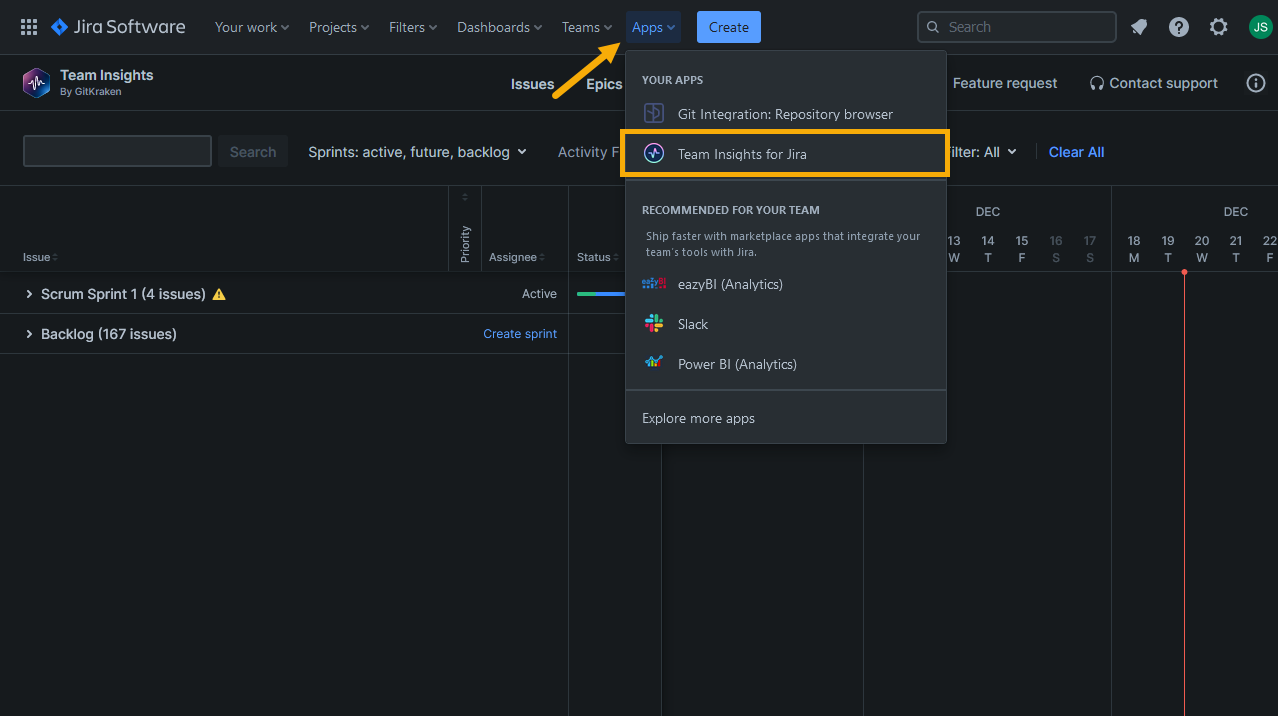
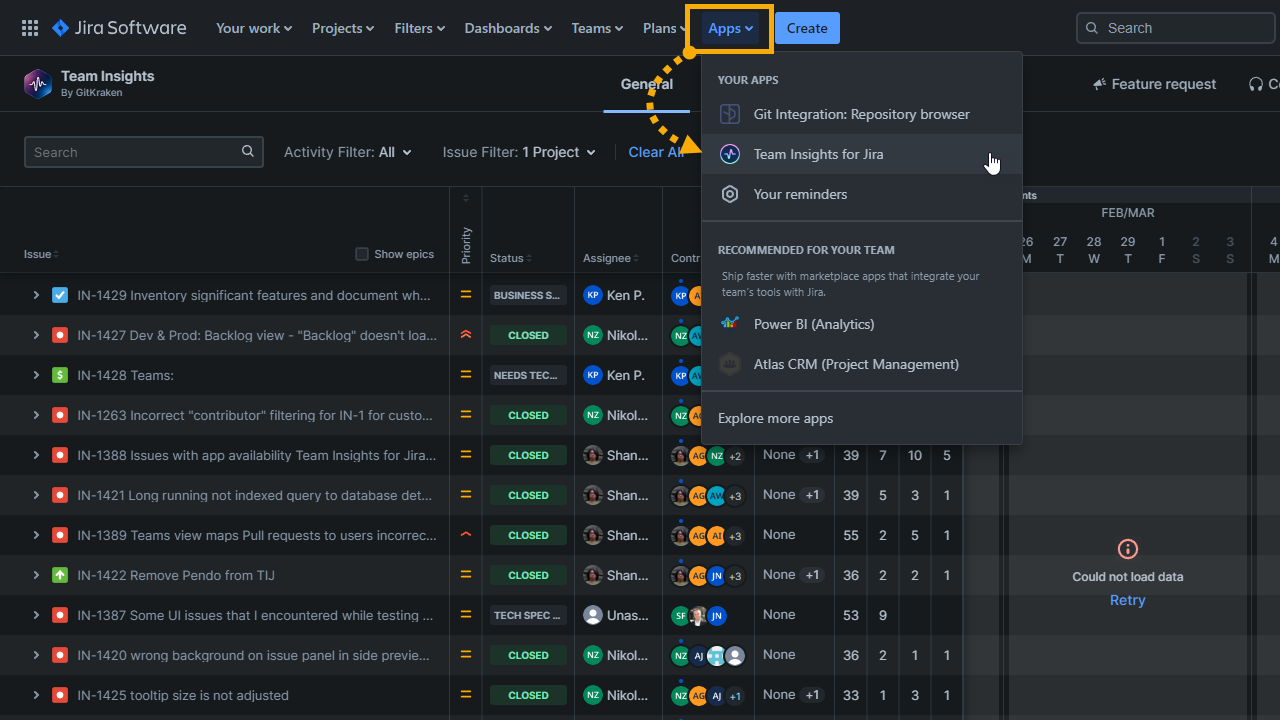
HC-112 Update TIJ doc draft with new changes (General view)

diff --git a/git-integration-for-jira-cloud/team-insights-for-jira-general-view-gij-cloud.md b/git-integration-for-jira-cloud/team-insights-for-jira-general-view-gij-cloud.md
@@ -1,0 +1,179 @@
+---
+
+title: General View (TIJ Cloud)
+description:
+taxonomy:
+    category: git-integration-for-jira-cloud
+
+---
+
+![](/wp-content/uploads/tij-gitcloud-general-view-tab-access.png)
+
+The default view for the Team Insights for Jira app is the General View.
+
+You can switch to another view such as General, Teams or Backlog by clicking their specific tabs. In General View, the epics issue list can be enabled by clicking the **Show epics** checkbox on the Issues column header.
+
+Use the search bar together with available search options to filter the list view.
+
+The list view displays Jira issues showing priority, user activity, and other information:
+
+| Column | Description |
+|:-------|:------------|
+| **_Issue_** | The Issue column shows the Jira issues that contain user and progress activities.<br><br>Click the **Show epics checkbox** to display the Epics issue types instead. |
+| **_Priority_** | Displays the degree of priority of a Jira issue. |
+| **_Status_** | Shows the progress status of a Jira issue. |
+| **_Assignee_** | Shows the user the Jira issue is currently assigned to. |
+| **_Contributors_** | Shows the contributor users actively worked on the Jira issue. |
+| **_Sprint_** | Shows the sprint name a Jira issue is included in. |
+| **_Days_** | Shows the number of days a Jira issue has been worked on. |
+| **_Comments_** | Shows the number of comments a Jira issue has. |
+| **_Commits_** | Shows the number of git commits a Jira issue has. |
+| **_Pull requests_** | Shows the number of pull requests a Jira issue has. |
+
+&nbsp;
+
+### Showing Issue Details
+
+To view more details about a specific Jira issue or Epics, click on the twisty icon (**\>**) to expand it.
+
+![](/wp-content/uploads/tij-gitcloud-general-view-item-details.png)
+
+Click on the Issue details icon to display the detailed dialog of the Jira issue.
+
+<img src='/wp-content/uploads/tij-gitcloud-issue-view-issue-details-dialog.png' style='margin:25px auto;max-width:100%;display:block;' />
+
+The issue details shows the following information on:
+
+*   who the Jira issue is assigned to
+*   which Jira issues the current ticket is waiting on
+*   which Jira issues is causing the current ticket to stall
+*   what is the current status of the Jira issue
+
+&nbsp;
+
+### Sprints view
+
+On the right section of the Issue list is the sprints view which displays the timeline of the sprint. This gives team managers the full picture of the progress of the Jira issues and what’s the next step to do. They will also be able to see which Jira issues that needed attention and identify which team members are overloaded with tasks or which work is at risk for an upcoming due date.
+
+![](/wp-content/uploads/tij-gitcloud-general-view-timeline-labels.png)
+
+The red line indicates today's date. If you drag the timeline scrubber, it changes the Activity date range filter. Hence, it will only show issues that have activity in that time frame. For example, dragging the slider to left lets you take a peek on what was worked on in the past few days or yesterday.
+
+Hover the mouse pointer over the activity bar and it will show details about status changes, and statistics on development changes – for that day. This will display what type of work the team performed on that day.
+
+<img src='/wp-content/uploads/tij-gitcloud-general-view-sprints-section-details.png' style='margin:25px auto;max-width:100%;display:block;' />
+
+Click on the **Go to issue** shortcut to take you directly to that Jira issue.
+
+Scroll the timeline horizontally by using the scrollbar at the bottom. The timeline shows a list of issues based on your selected Issue and Activity filters.
+
+![](/wp-content/uploads/tij-gitcloud-general-view-bottom-scroll-bar-loc.png)
+
+Click on an Issue row to expand child issues and view additional information by moving the mouse pointer over the revealed icons.
+
+![](/wp-content/uploads/tij-gitcloud-issue-view-timeline-row-details.png)
+
+Finally, on the bottom part of the page, you will see the following shortcut controls:
+
+| Control | Description |
+|:--------|:------------|
+| **_Displayed items_** | Set how many items per page will be displayed in the list view. |
+| **_Page navigation_** | Shows the page controls to switch across several pages of information views. |
+| **_Today_** | Clicking this button will automatically adjust the slider to today's date. |
+| <img src='/wp-content/uploads/gij-question-mark-icon-32.png' style='height:16px;width:auto;' /> |Clicking this button will show quick helpful tips on how to navigate and use the General, Epics, or Teams view. |
+
+&nbsp;
+
+### Epics view mode
+
+Tick the **Show epics** checkbox on the Issue column header to display the list view in Epics mode.
+
+<img src='/wp-content/uploads/tij-gitcloud-general-view-epics-mode.png' style='margin:25px auto;max-width:100%;display:block;' />
+
+The Epics view contains information that helps to organize the rows by epics. This allows team/product managers to easily expand and view the issues within each epic. While it functions closely similar to the General View, it also provides an additional level of organization based on epics.
+
+&nbsp;
+
+### Column information
+
+Refer to the table below describing each column header's description and what information it shows.
+
+| Column | Description |
+|:------:|:------------|
+| Issue  | This is the name of a Jira issue. Click a row to expand and see details related to this Jira issue. |
+| Priority | Displays the priority of a Jira issue being worked on by a team member. |
+| Status | Shows status information and progress of a specific task. |
+| Contributors | Displays one or more contributors working on a specific task. |
+| Assignee | Shows the member assigned to this task. |
+| Days | Indicates the time the task has been worked on. |
+| Comments | Shows how many comments this task has. |
+| Commits | Shows how many commits this task has.<br><div class="bbb-callout bbb--tip"><div class="irow"><div class="ilogobox"><span class="logoimg"></span></div><div class="imsgbox">If your organization or team requires information be displayed in this column, install the Git Integration for Jira app.</div></div></div> |
+| Pull requests | Shows how many pull requests this task has.<br><div class="bbb-callout bbb--tip"><div class="irow"><div class="ilogobox"><span class="logoimg"></span></div><div class="imsgbox">If your organization or team requires information be displayed in this column, install the Git Integration for Jira app.</div></div></div> |
+
+### Search functions nad filters
+
+On the search panel, team/project managers can set the criteria and apply some filters to the search.
+
+![](/wp-content/uploads/tij-gitcloud-teams-view-search-panel.png)
+
+To find and display items in the list that contain a specific word or text, simply enter the desired search term into the search box. This will allow you to easily locate and view relevant items from the list.
+
+#### Activity filter
+
+![](/wp-content/uploads/tij-gitcloud-teams-view-search-activity-filter.png)
+
+Set **Activity Dates** by choosing the desired interval. Click on the drop-down list to see available intervals which include:
+
+*   All Activity - Last 8 weeks
+*   Last 4 weeks
+*   Last 2 weeks
+*   Last 1 week
+*   Custom - Select start date and end date for this filter.
+
+For **Filters**, select if you want to:
+
+*   Show Issues with Jira Activity, and/or
+*   Show Issues with Git Activity (requires Git Integration for Jira app installed)
+
+You can select one or both. Click **Apply selection** to accept the selected filters.
+
+For **Contributors**, click on the drop-down list to select one or more members for this filter. The default filter is **All**. Utilize the search box to quickly find the team member that you want to select for this filter. Finally, click **Apply selection** to accept the selected members for the contributors filter.
+
+To reset selection and filter settings click **Clear** on each filter group.
+
+#### Issue filter
+
+The Issue Filters allows team/project managers to assign available issue filters to the search. Utilize the search box on each filter to quickly find and select one or more categories. If available, click **Apply selection** to accept the selected filters.
+
+| Category filter | Description |
+|:----------------|:------------|
+| Project | Select one or more projects for the issue filter. |
+| Sprints | Click on the sprints filter to view and select one or more sprints.<br><br>Choose No Sprint if you want to see projects that does not have sprints. |
+| Statuses | Select one or more statuses for the issue filter. |
+| Assignees | Select one or more team members for the issue filter. |
+| Labels | Select one or more labels for the issue filter. |
+| Issue Types | Select one or more issue type for the issue filter. |
+| Versions | Select one or more versions for the issue filter. Displays nothing if no versions are detected. |
+| Priorities | Select one or more priority state for the issue filter. |
+| Components | Select one or more components for the issue filter. Displays nothing if no components are detected. |
+
+#### Clear All
+
+To clear all the selected filters and search settings, click **Clear All**. Some selections and search filters are also reset to default.
+
+With all the selection of filters and search options in place, click **Search** to see the results in the list view according to your preference.
+
+&nbsp;
+
+### More on Team Insights for Jira
+
+[Team Insights for Jira main](/git-integration-for-jira-cloud/team-insights-for-jira-gij-cloud)
+
+**General View** (this page)
+
+[Teams View](/git-integration-for-jira-cloud/team-insights-for-jira-teams-view-gij-cloud)
+
+[Backlog View](/git-integration-for-jira-cloud/team-insights-for-jira-backlog-view-gij-cloud/)
+
+[Pull request timeline reindex](/git-integration-for-jira-cloud/pull-request-timeline-for-tij-gij-cloud/)
+

diff --git a/git-integration-for-jira-cloud/team-insights-for-jira-gij-cloud.md b/git-integration-for-jira-cloud/team-insights-for-jira-gij-cloud.md
@@ -17,9 +17,9 @@ taxonomy:
 
 This extension provides team managers the ability to monitor specific git history and Jira team activity at the project, epic and sprint level. This enables managers to prioritize work, identify risks, reveal trends and make better decisions of managing Jira team workflows and activities.
 
-![](/wp-content/uploads/tij-gitcloud-main-default-view-issues-tab.png)
+![](/wp-content/uploads/tij-gitcloud-main-default-view-general-tab.png)
 
-Team Insights for Jira (TIJ) grants managers a complete view of what your team is working on and it's progress. Managers can easily identify items at-risk based on team activity and progress.
+Team Insights for Jira (TIJ) grants managers a complete view of what your team is working on and its progress. Managers can easily identify items at-risk based on team activity and progress.
 
 <div class="bbb-callout bbb--tip">
     <div class="irow">
@@ -27,7 +27,7 @@ Team Insights for Jira (TIJ) grants managers a complete view of what your team i
         <span class="logoimg"></span>
     </div>
     <div class="imsgbox">
-        It's not a requirement but if you have Git Integration for Jira Cloud installed, this extension will improve planning workflow and display more information by pulling Git data into your views.
+        If you have Git Integration for Jira Cloud installed, it can enhance your planning workflow and provide more information by integrating Git data into your views.
     </div>
     </div>
 </div>
@@ -36,7 +36,7 @@ Team Insights for Jira (TIJ) grants managers a complete view of what your team i
 
 ### Installation
 
-Go to the Atlassian Marketplace then search for “Team Insights for Jira”.
+Go to the Atlassian Marketplace then search for "Team Insights for Jira".
 
 ![](/wp-content/uploads/tij-gitcloud-atlassian-marketplace-installation.png)
 
@@ -56,20 +56,20 @@ When the installation is complete, click **Get started** on the following dialog
 
 With Team Insights for Jira app, team managers will be able to see team activity across projects, epics and sprints.
 
-| Feature   | GIJ + TIJ | TIJ Only |
-|:----------|:----------|:---------|
+| Feature   | TIJ Only  | GIJ + TIJ |
+|:----------|:----------|:----------|
 | Identify stale issues or issues that revert in status | ![](/wp-content/uploads/gij-matrix-open-check-green.png) | ![](/wp-content/uploads/gij-matrix-open-check-green.png) |
 | See activities for sprint planning, stand ups, and retrospectives<sup>1</sup> | ![](/wp-content/uploads/gij-matrix-open-check-green.png) | ![](/wp-content/uploads/gij-matrix-open-check-green.png) |
 | Helpful insights for executives, managers, and individual contributors<sup>1</sup> | ![](/wp-content/uploads/gij-matrix-open-check-green.png) | ![](/wp-content/uploads/gij-matrix-open-check-green.png) |
 | Enables all team members to identify and contribute improvements | ![](/wp-content/uploads/gij-matrix-open-check-green.png) | ![](/wp-content/uploads/gij-matrix-open-check-green.png) |
 | Valuable for all departments that use Jira in your organization | ![](/wp-content/uploads/gij-matrix-open-check-green.png) | ![](/wp-content/uploads/gij-matrix-open-check-green.png) |
 | Easily see issues status progress over time, where it changed and how long it remained in that state | ![](/wp-content/uploads/gij-matrix-open-check-green.png) | ![](/wp-content/uploads/gij-matrix-open-check-green.png) |
-| Identify pull requests that remain open for too long<sup>2</sup> | ![](/wp-content/uploads/gij-matrix-open-check-green.png) | ![](/wp-content/uploads/gij-matrix-open-not-red.png) |
-| View commits and other git related data for your team. | ![](/wp-content/uploads/gij-matrix-open-check-green.png) | ![](/wp-content/uploads/gij-matrix-open-not-red.png) |
-| Create branches and pull/merge requests in Jira issues for your team | ![](/wp-content/uploads/gij-matrix-open-check-green.png) | ![](/wp-content/uploads/gij-matrix-open-not-red.png) |
-| Link webhooks to your Git and Jira for faster display of git data | ![](/wp-content/uploads/gij-matrix-open-check-green.png) | ![](/wp-content/uploads/gij-matrix-open-not-red.png) |
-| Manage git integrations and repository connections | ![](/wp-content/uploads/gij-matrix-open-check-green.png) | ![](/wp-content/uploads/gij-matrix-open-not-red.png) |
-| Assign other users to manage integrations and repository connections | ![](/wp-content/uploads/gij-matrix-open-check-green.png) | ![](/wp-content/uploads/gij-matrix-open-not-red.png) |
+| Identify pull requests that remain open for too long<sup>2</sup> | ![](/wp-content/uploads/gij-matrix-open-not-red.png) | ![](/wp-content/uploads/gij-matrix-open-check-green.png) |
+| View commits and other git related data for your team. | ![](/wp-content/uploads/gij-matrix-open-not-red.png) | ![](/wp-content/uploads/gij-matrix-open-check-green.png) |
+| Create branches and pull/merge requests in Jira issues for your team | ![](/wp-content/uploads/gij-matrix-open-not-red.png) | ![](/wp-content/uploads/gij-matrix-open-check-green.png) |
+| Link webhooks to your Git and Jira for faster display of git data | ![](/wp-content/uploads/gij-matrix-open-not-red.png) | ![](/wp-content/uploads/gij-matrix-open-check-green.png) |
+| Manage git integrations and repository connections | ![](/wp-content/uploads/gij-matrix-open-not-red.png) | ![](/wp-content/uploads/gij-matrix-open-check-green.png) |
+| Assign other users to manage integrations and repository connections | ![](/wp-content/uploads/gij-matrix-open-not-red.png) | ![](/wp-content/uploads/gij-matrix-open-check-green.png) |
 
 <b><sup>1</sup><b> With Git Integration for Jira app also installed, git data is displayed in a more detailed manner
 
@@ -125,14 +125,15 @@ Team Insights for Jira aims to improve your workflows and provide you with the d
 
 #### Manage Jira Workflows Efficiently
 
-Focus on the Jira issues that matter the most or require immediate attention. Examine multiple Jira issues to see actions performed by users and when they occurred. Easily determine whether tasks are at risk of missing an upcoming deadline or if team members have an excessive workload -- in a more detailed view. Identify stagnant problems, issues that revert in status, or pull requests that remain open for an extended period of time.
-Enhance Team Collaboration with TIJ Views
+Focus on the Jira issues that demand immediate attention. Gain insight into actions performed by users and their timing across multiple Jira issues. Easily determine tasks that are at risk of missing upcoming deadlines, identify team members that have an excessive workload in a more detailed view. Pinpoint stagnant problems, reverted closed issues, and pull requests that remain open for an extended period of time.
 
-Enable every member of the team and all departments to enhance their understanding by utilizing TIJ views during sprint, epic, and backlog planning. By analyzing the data, individuals can develop the ability to identify recurring patterns, detect trends, and uncover potential areas for enhancement. This process enables them to acquire a thorough comprehension of the entire situation beforehand.
+#### Enhance Team Collaboration with TIJ Views
+
+Enable every team member and all departments to enhance their understanding by utilizing TIJ views during sprint, epic, and backlog planning. When analyzing data, individuals can identify recurring patterns, detect trends, and uncover potential areas for improvement. This process helps them understand the whole situation beforehand.
 
 #### Track and Improve Team Productivity
 
-Team Insights for Jira provides a comprehensive view of your team's Jira and Git activity over time. It allows you to easily track what tasks your team is currently working on and monitor their progress. With this information, you can make more informed decisions to improve productivity and efficiency.
+Team Insights for Jira provides a comprehensive view of your team's Jira and Git activity over time. It allows you to easily track what tasks your team is currently working on and monitor their progress, thus impacting on productivity and efficiency.
 
 TIJ displays Jira activity for all Jira users. Git data such as branches, commits, pull requests, and tags are automatically included in the views if you have the [Git Integration for Jira](https://www.gitkraken.com/git-integration-for-jira) app installed.
 
@@ -155,7 +156,7 @@ TIJ displays Jira activity for all Jira users. Git data such as branches, commit
 
 **Team Insights for Jira Cloud** (this page)
 
-[Sprints/Epics View](/git-integration-for-jira-cloud/team-insights-for-jira-issues-epics-view-gij-cloud/)
+[General View](/git-integration-for-jira-cloud/team-insights-for-jira-general-view-gij-cloud/)
 
 [Teams View](/git-integration-for-jira-cloud/team-insights-for-jira-teams-view-gij-cloud)
 
